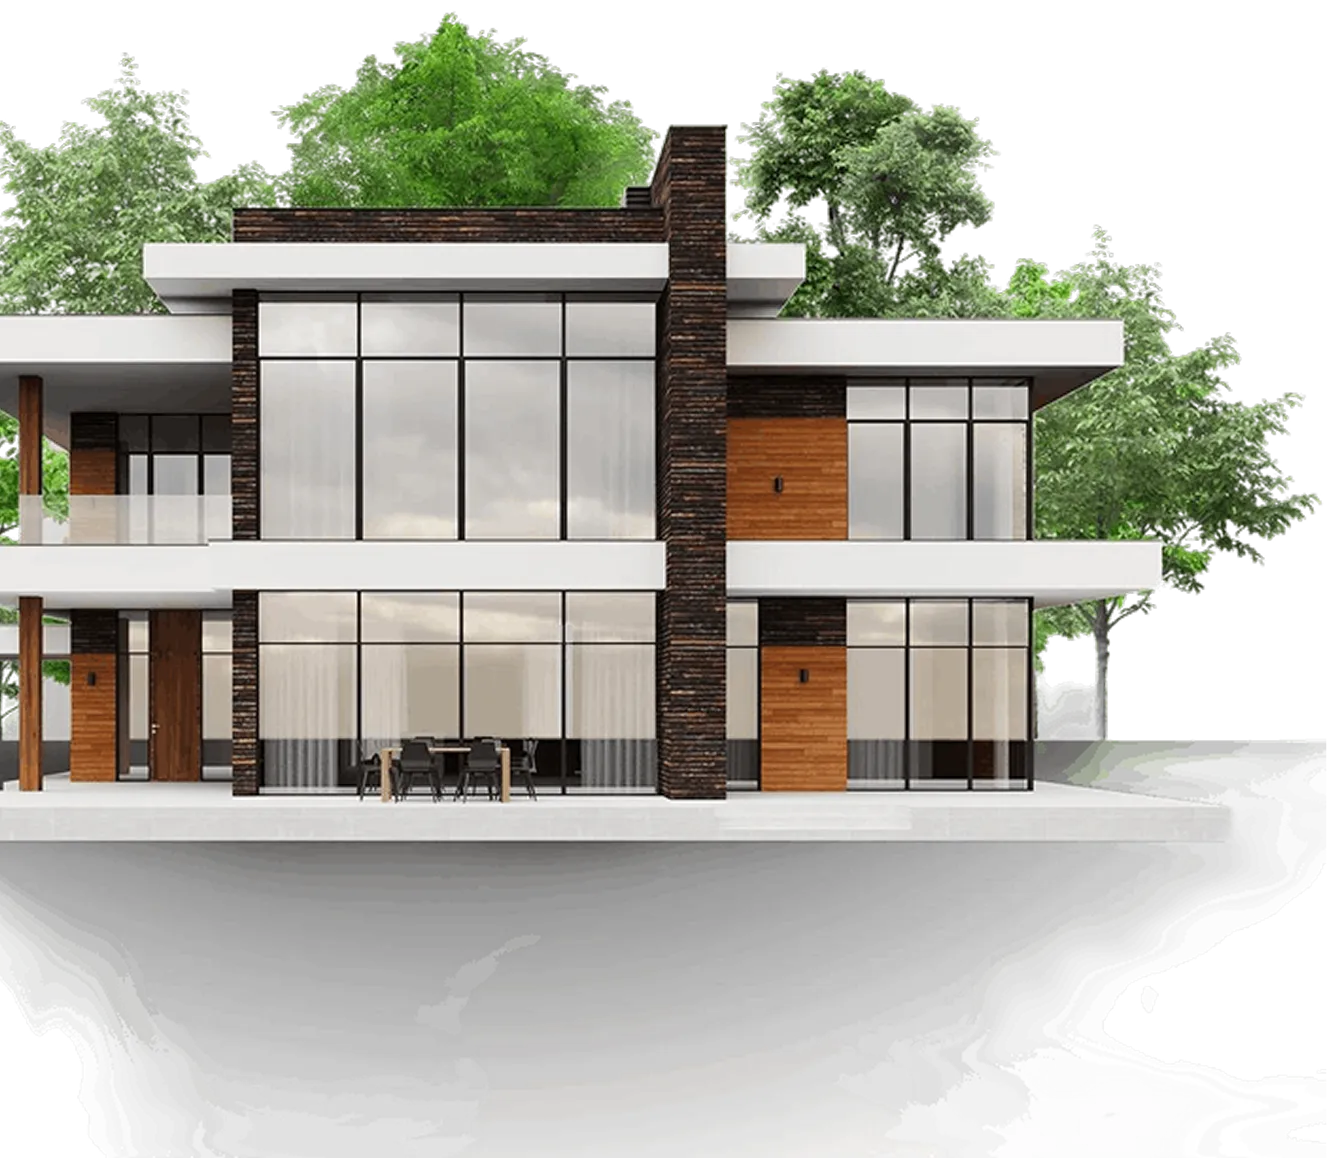
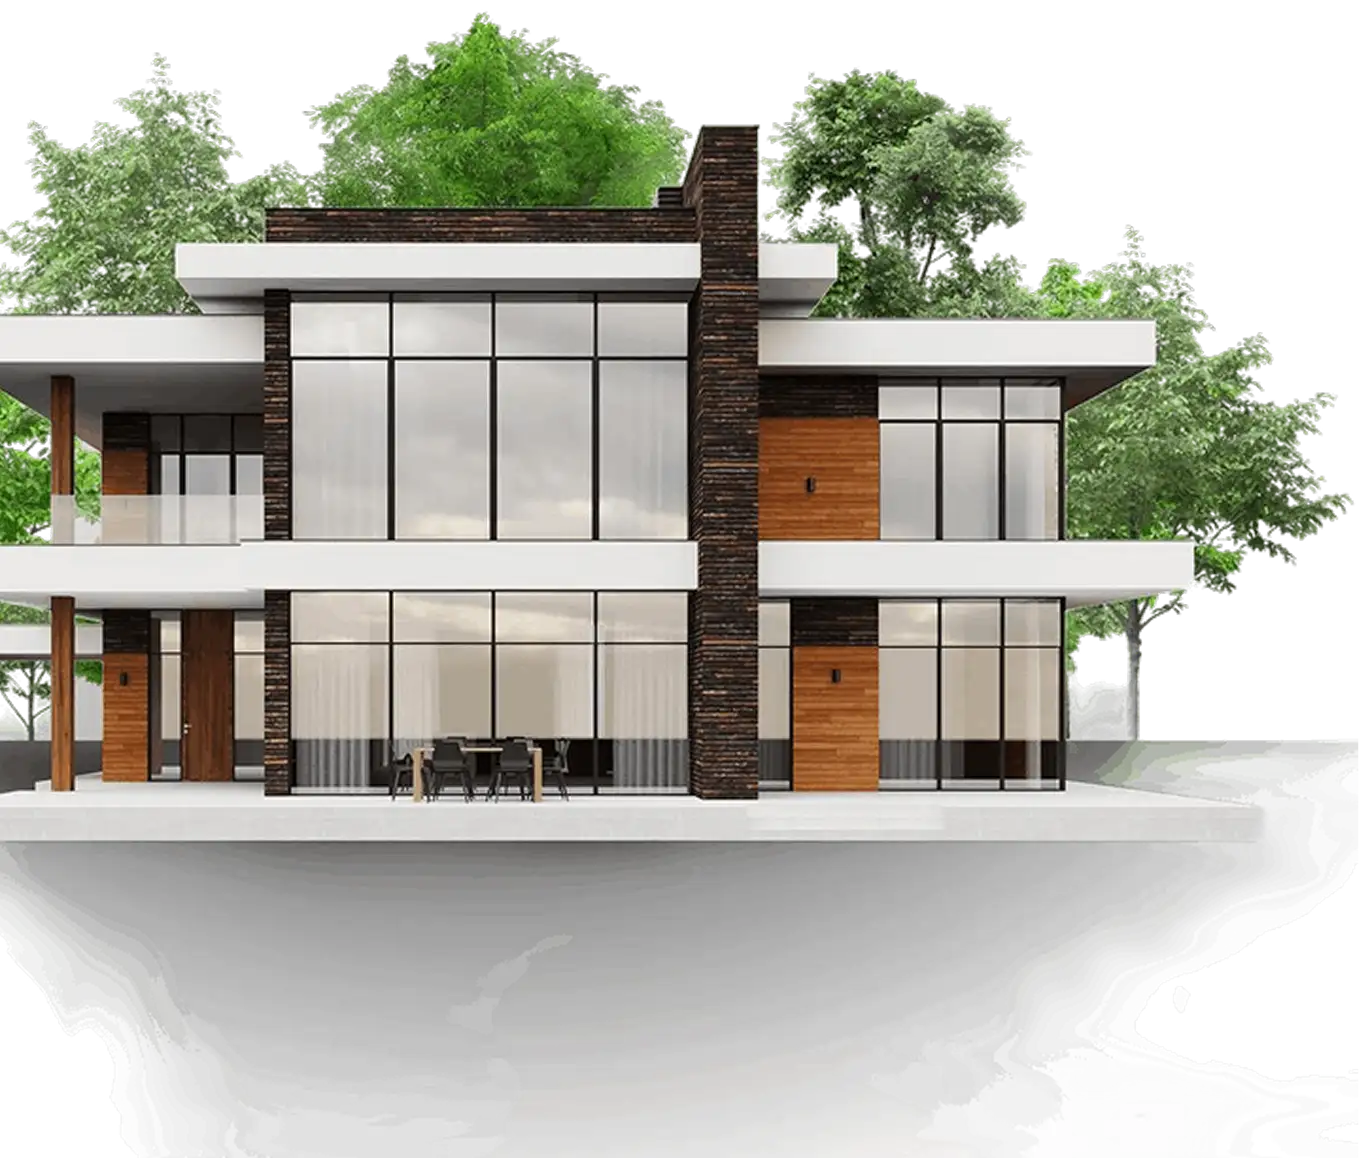
about us page done

diff --git a/assets/css/about.css b/assets/css/about.css
@@ -495,9 +495,7 @@
 
 .workflow-section {
   padding: 7.5rem 0;
-  background-color: var(--color-background-warm, #FAF6F0);
-  /* Warm off-white */
-  color: var(--color-dark, #162933);
+  background-color: #F8F7F4;
   overflow: hidden;
 }
 
@@ -508,11 +506,11 @@
 .workflow-section__grid {
   display: grid;
   grid-template-columns: 1.05fr 0.95fr;
-  gap: 4.5rem;
+  gap: 4rem;
   align-items: start;
 }
 
-/* Left Column Styling */
+/* Left Column: Headline + Image Below */
 .workflow-section__content {
   display: flex;
   flex-direction: column;
@@ -520,39 +518,40 @@
 
 .workflow-section__eyebrow {
   margin: 0 0 1rem;
-  font-family: var(--font-primary, 'Inter', sans-serif);
-  font-size: clamp(0.75rem, 1.2vw, 0.85rem);
-  font-weight: 500;
-  text-transform: capitalize;
-  letter-spacing: 0.03em;
-  color: var(--color-muted-gold, #C1A470);
+  font-family: var(--font-primary);
+  font-size: clamp(0.85rem, 1.4vw, 0.95rem);
+  font-weight: var(--fw-medium);
+  color: var(--color-primary);
 }
 
 .workflow-section__title {
-  margin: 0 0 3rem;
-  font-family: var(--font-secondary, 'Playfair Display', serif);
-  font-size: clamp(2.5rem, 4.4vw, 4.5rem);
-  font-weight: 400;
-  line-height: 1.1;
-  letter-spacing: -0.015em;
-  color: var(--color-dark, #162933);
+  margin: 0 0 2.5rem;
+  font-family: var(--font-secondary);
+  font-size: clamp(2.5rem, 4.4vw, 4.25rem);
+  font-weight: var(--fw-regular);
+  line-height: 1.08;
+  letter-spacing: -1.44px;
+  color: var(--color-dark);
 }
 
+/* Sits directly below heading in flow, pulled flush to left edge with 0 padding */
 .workflow-section__media {
   position: relative;
-  width: 100%;
-  margin-top: auto;
+  left: -8px;
+  max-width: 620px;
 }
 
 .workflow-section__image {
   display: block;
   width: 100%;
   height: auto;
-  max-width: 480px;
+  padding: 0;
+  margin: 0;
   object-fit: contain;
+  object-position: left bottom;
 }
 
-/* Right Column & Timeline Timeline Cards Styling */
+/* Right Column & Timeline Cards (Unchanged) */
 .workflow-section__timeline {
   display: flex;
   flex-direction: column;
@@ -565,10 +564,9 @@
   gap: 1.25rem;
 }
 
-/* Frosty Warm Step Card */
 .workflow-card {
-  background: var(--color-white-translucent, rgba(255, 255, 255, 0.45));
-  border: 1px solid rgba(22, 41, 51, 0.08);
+  background: var(--color-white-translucent, rgba(255, 255, 255, 0));
+  border: 0.5px solid #898989;
   border-radius: 20px;
   transition: transform 0.4s cubic-bezier(0.25, 1, 0.5, 1),
     box-shadow 0.4s cubic-bezier(0.25, 1, 0.5, 1),
@@ -579,37 +577,35 @@
   transform: translateY(-3px);
   border-color: var(--color-muted-gold, #C1A470);
   box-shadow: 0 12px 30px rgba(22, 41, 51, 0.03);
-  background: var(--color-white, #FFFFFF);
+  /* background: var(--color-white, #FFFFFF); */
 }
 
 .workflow-card__inner {
   display: flex;
   align-items: flex-start;
   gap: 1.5rem;
-  padding: 1.85rem 2.25rem;
+  padding: 1.3rem 1.3rem;
 }
 
-/* Badge/Number Circle */
 .workflow-card__badge {
   display: flex;
   align-items: center;
   justify-content: center;
   flex-shrink: 0;
-  width: 40px;
-  height: 32px;
-  background-color: var(--color-muted-gold-bg, #C1A470);
-  color: var(--color-dark-text, #162933);
-  border-radius: 100px;
-  font-family: var(--font-primary, 'Inter', sans-serif);
-  font-size: 0.825rem;
+  width: 75px;
+  height: 45px;
+  background: #C1A470;
+  color: #222222;
+  border-radius: 22px;
+  font-family: var(--font-primary);
+  font-size: 0.99rem;
   font-weight: 600;
 }
 
-/* Inner Text styling (Pill Row Content) */
 .workflow-card__text {
   margin: 0.15rem 0 0;
-  font-family: var(--font-primary, 'Inter', sans-serif);
-  font-size: clamp(0.95rem, 1.4vw, 1.05rem);
+  font-family: var(--font-primary);
+  font-size: clamp(1rem, 1.4vw, 2rem);
   font-weight: 400;
   line-height: 1.55;
   color: var(--color-dark, #162933);
@@ -617,14 +613,15 @@
 
 .workflow-section__footnote {
   margin: 0.5rem 0 0;
-  font-family: var(--font-primary, 'Inter', sans-serif);
-  font-size: clamp(0.75rem, 1.2vw, 0.85rem);
+  font-family: var(--font-primary);
+  font-size: clamp(0.9rem, 1.2vw, 1.5rem);
   line-height: 1.5;
-  color: rgba(22, 41, 51, 0.65);
-  max-width: 32rem;
+  color: #222222;
+  letter-spacing: -0.64px;
+  max-width: 35rem;
 }
 
-/* Responsive Adaptive Styling (768px-992px & under) */
+/* Responsive Adaptive Styling */
 @media (max-width: 991.98px) {
   .workflow-section {
     padding: 5rem 0;
@@ -640,14 +637,21 @@
   }
 
   .workflow-section__media {
-    display: none;
-    /* Inward illustration can hide to optimize smaller vertical flow */
+    margin-left: calc(-1 * var(--bs-gutter-x, 0.75rem));
+  }
+
+  .workflow-card__badge {
+    font-size: 0.88rem;
   }
 }
 
 @media (max-width: 575.98px) {
   .workflow-card__inner {
-    padding: 1.5rem;
+    padding: 1.2rem 1rem;
     gap: 1rem;
   }
 }
+
+/* ==========================================================================
+   HOW WE WORK / WORKFLOW SECTION
+   ========================================================================== */

diff --git a/about.html b/about.html
@@ -313,7 +313,7 @@
                 <div class="perspective-section__right">
                     <h2 class="perspective-section__title" id="perspectiveHeading" data-aos="fade-up"
                         data-aos-delay="120">
-                        Property Advice<br />With Perspective.
+                        Property Advice <br class="d-none d-md-none d-lg-block d-xl-block"> With Perspective.
                     </h2>
                     <p class="perspective-section__description" data-aos="fade-up" data-aos-delay="240">
                         Our new Dubai property business is focused on off-plan developments and helping buyers and
@@ -357,12 +357,15 @@
     <!-- =====================================================================
       PERSPECTIVE SECTION
 ====================================================================== -->
+    <!-- =====================================================================
+      WORKFLOW SECTION
+====================================================================== -->
 
     <section class="workflow-section" aria-labelledby="workflowHeading">
         <div class="container-xl workflow-section__container">
             <div class="workflow-section__grid">
 
-                <!-- Left Column: Branding, Hero Headline & Image -->
+                <!-- Left Column: Eyebrow, Headline & Flush-Left Image Directly Below -->
                 <div class="workflow-section__content">
                     <p class="workflow-section__eyebrow" data-aos="fade-up" data-aos-delay="0">
                         How We Work
@@ -371,15 +374,15 @@
                         From First Conversation To Next Steps
                     </h2>
 
-                    <!-- Architectural Architectural Render Frame (Matches homepage/AOS defaults) -->
-                    <div class="workflow-section__media" data-aos="fade-up" data-aos-delay="240">
+                    <!-- In normal flow below heading, shifted flush to left viewport edge -->
+                    <div class="workflow-section__media" data-aos="fade-right" data-aos-delay="240">
                         <img src="assets/images/about/workflow-bg.webp"
                             alt="Contemporary multi-story Dubai residential villa with natural wood panels"
                             class="workflow-section__image" loading="lazy">
                     </div>
                 </div>
 
-                <!-- Right Column: Interactive Sequence Timeline & Footnote -->
+                <!-- Right Column: Step Cards & Footnote (Unchanged) -->
                 <div class="workflow-section__timeline">
                     <div class="workflow-timeline" role="list">
 
@@ -412,7 +415,7 @@
 
                     </div>
 
-                    <!-- Footnote (Delay sequenced at the end of cards) -->
+                    <!-- Footnote -->
                     <p class="workflow-section__footnote" data-aos="fade-up" data-aos-delay="450">
                         Legal, tax and financial questions should always be checked with qualified independent advisors.
                     </p>
@@ -421,7 +424,9 @@
             </div>
         </div>
     </section>
-
+    <!-- =====================================================================
+      WORKFLOW SECTION
+====================================================================== -->
 
 
     <!-- =====================================================================
